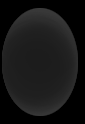
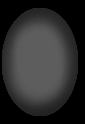
New masks by Idan, better, but still not clear enough and maybe not aligned well yet

diff --git a/imabean.py b/imabean.py
@@ -29,13 +29,13 @@ SCROLLER_END_X = SCREEN_WIDTH - SCROLLER_MARGIN - SCROLLER_WIDTH
 FIRST_RECT_INDEX = 0
 SECOND_RECT_INDEX = 1
 
-FIRST_FACE_X = 445
-FIRST_FACE_Y = 143
+FIRST_FACE_X = 427
+FIRST_FACE_Y = 137
 FIRST_FACE_WIDTH = 85
 FIRST_FACE_HEIGHT = 124
 
-SECOND_FACE_X = 119
-SECOND_FACE_Y = 296
+SECOND_FACE_X = 114
+SECOND_FACE_Y = 284
 SECOND_FACE_WIDTH = 100
 SECOND_FACE_HEIGHT = 138
 
